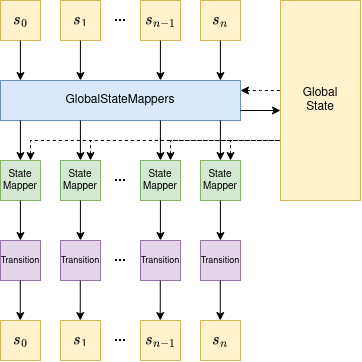
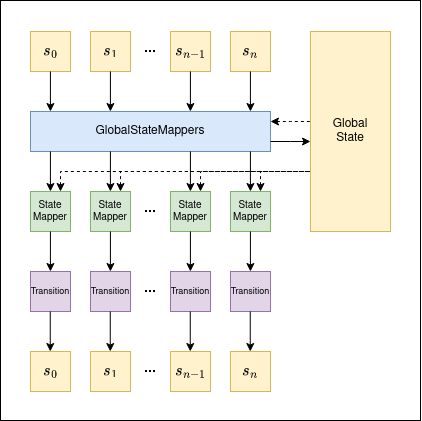
readme update

diff --git a/README.md b/README.md
@@ -35,6 +35,10 @@ There are **three** distinct types of operations in `michie`:
 
 ## Distributed Model
 
+`michie` executes `Transitions` and `StateMappers` on remote *Workers*.
+It uses the fastest JSON python serializer [orjson](https://github.com/ijl/orjson) to serialize jobs and results.
+Before sending the job to the workers it runs the `requirements` function to check if all the needed fields are available in the current state and uses the `state_map` and `global_state_map` (only for `StateMappers`) to map the whole state in a smaller `mapped_state` to be serialized (reducing the communication overhead to the minimum)
+
 ![](./README.md.d/michie-execution.png)
 
 ## Examples
